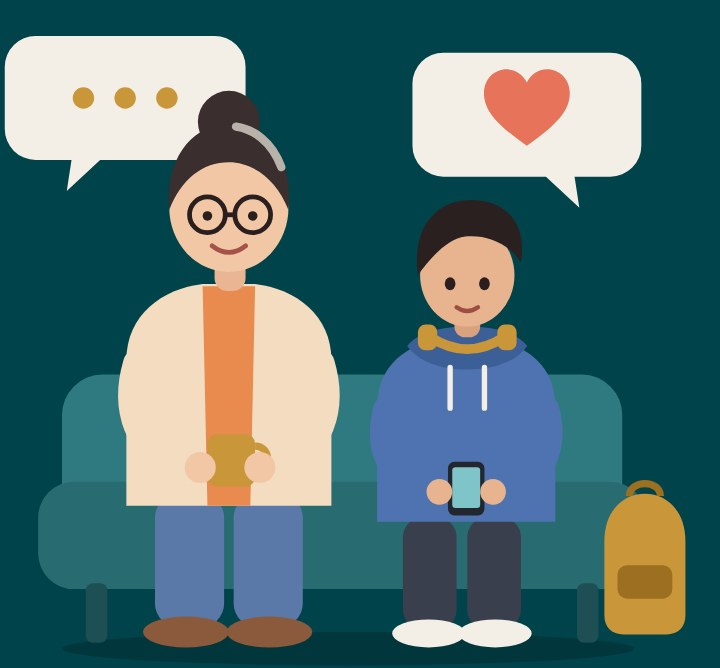
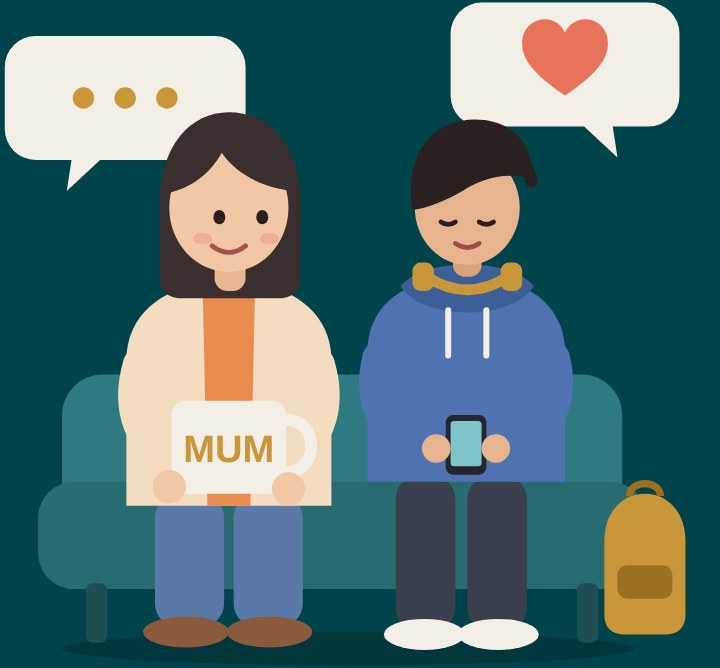
Make parent coaching illustration read clearly as mum and teen
Claude-Session: https://claude.ai/code/session_01WPQDsoVgMzybGv7bmhGbSt

Changed region(s): [[0.4889, 0.0, 0.9472, 0.988], [0.2139, 0.1198, 0.4278, 0.4491], [0.2139, 0.5988, 0.4583, 0.7485]]

diff --git a/index.html b/index.html
@@ -523,7 +523,7 @@
     .cx-choose2 { display:grid; grid-template-columns:1fr 1fr; gap:var(--sp5); }
     .cx-choose2 > a { display:flex; flex-direction:column; text-decoration:none; color:inherit; background:var(--white); border-radius:22px; overflow:hidden; border:1px solid var(--border); box-shadow:0 8px 30px rgba(0,0,0,0.07); cursor:pointer; transition:transform .2s, box-shadow .2s; }
     .cx-choose2 > a:hover { transform:translateY(-5px); box-shadow:0 18px 44px rgba(0,0,0,0.13); }
-    .cc-img { position:relative; background:#01434A; aspect-ratio:16/9; overflow:hidden; border-bottom:6px solid var(--accent); }
+    .cc-img { position:relative; background:#01434A; aspect-ratio:3/2; overflow:hidden; border-bottom:6px solid var(--accent); }
     .cc-img img { width:100%; height:100%; object-fit:contain; display:block; padding-top:44px; box-sizing:border-box; transition:transform .35s; }
     .cx-choose2 > a:hover .cc-img img { transform:scale(1.05); }
     .cc-badge { position:absolute; left:16px; top:16px; background:var(--accent); color:#fff; font-family:var(--mono); font-size:10px; font-weight:700; letter-spacing:0.7px; text-transform:uppercase; padding:6px 12px; border-radius:999px; box-shadow:0 4px 12px rgba(0,0,0,0.2); }
